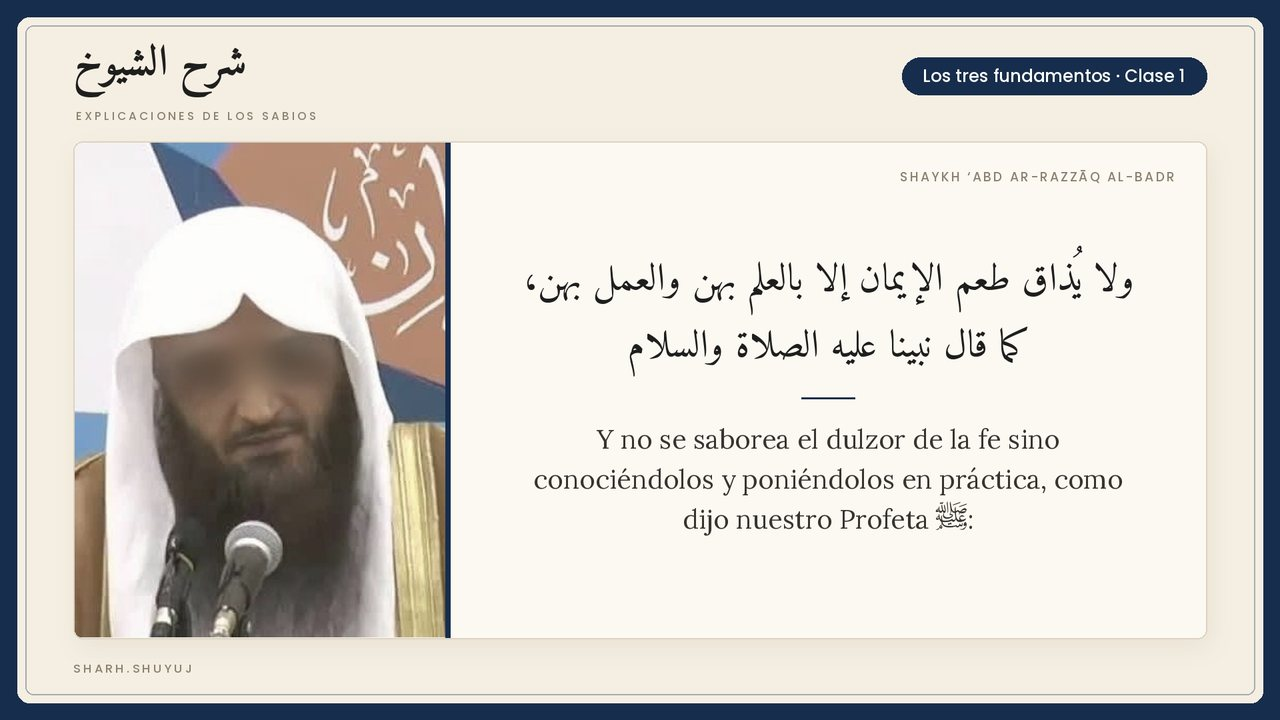
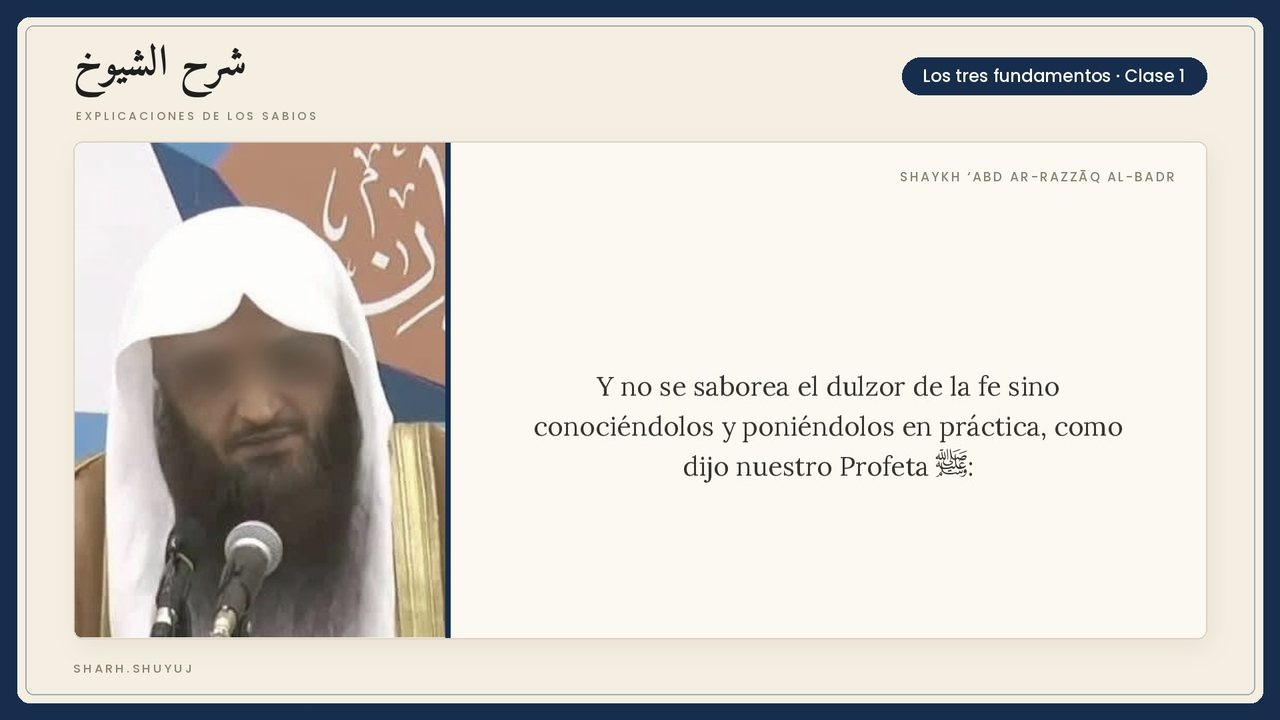
Quitar menciones al texto en árabe (solo traducción al español)

Changed region(s): [[0.4062, 0.4583, 0.875, 0.7333], [0.4062, 0.3667, 0.875, 0.4278]]

diff --git a/index.html b/index.html
@@ -4,7 +4,7 @@
 <meta charset="utf-8">
 <meta name="viewport" content="width=device-width, initial-scale=1">
 <title>شرح الشيوخ · Las explicaciones de los grandes sabios, en español</title>
-<meta name="description" content="Las explicaciones completas de los grandes sabios sobre los libros clásicos del Islam, en árabe y en español, libro a libro. Únete a la lista de espera.">
+<meta name="description" content="Las explicaciones completas de los grandes sabios sobre los libros clásicos del Islam, traducidas al español, libro a libro. Únete a la lista de espera.">
 <meta property="og:title" content="شرح الشيوخ · Explicaciones de los Sabios">
 <meta property="og:description" content="Las explicaciones completas de los grandes sabios, directamente en español. Únete a la lista de espera.">
 <meta property="og:image" content="https://sharhshuyuj.com/yt-enfermedad.jpg">
@@ -262,7 +262,7 @@
     <div>
       <div class="eyebrow">Series completas · Muy pronto</div>
       <h1>Las explicaciones de los grandes sabios, <em>completas</em> y en español.</h1>
-      <p class="lead">Los libros clásicos del Islam, explicados de principio a fin por los sabios de Ahl as-Sunna. Con el texto en árabe y la traducción al español, clase a clase.</p>
+      <p class="lead">Los libros clásicos del Islam, explicados de principio a fin por los sabios de Ahl as-Sunna. Traducidos al español, clase a clase.</p>
       <div class="hero-ctas">
         <a class="btn btn-main" href="#unete">Únete a la lista de espera →</a>
         <a class="btn btn-line" href="#curriculum">Ver los libros</a>
@@ -329,8 +329,8 @@
       </div>
       <div class="card reveal">
         <div class="ico"><svg viewBox="0 0 24 24" fill="none" stroke="currentColor" stroke-width="1.8" stroke-linecap="round" stroke-linejoin="round"><path d="M3 5h8M7 3v2M5 5c0 4 3 7 6 8M9 5c0 3-2 6-6 8"/><path d="M13 21l4-10 4 10M14.5 17.5h5"/></svg></div>
-        <h3>Árabe y español</h3>
-        <p>Escuchas al sabio en árabe y lees cada frase en árabe y en español a la vez. Así entiendes todo y, además, aprendes el vocabulario.</p>
+        <h3>Traducción cuidada</h3>
+        <p>Escuchas al sabio con su propia voz y lees cada frase traducida al español, de forma fiel y revisada. Así no se te escapa nada.</p>
       </div>
       <div class="card reveal">
         <div class="ico"><svg viewBox="0 0 24 24" fill="none" stroke="currentColor" stroke-width="1.8" stroke-linecap="round" stroke-linejoin="round"><circle cx="12" cy="8" r="4"/><path d="M4 21c1.5-4 4.5-6 8-6s6.5 2 8 6"/></svg></div>
@@ -345,11 +345,11 @@
     </div>
 
     <div class="sample">
-      <img class="reveal" src="muestra-clase.jpg" alt="Ejemplo de una clase: texto en árabe y traducción al español">
+      <img class="reveal" src="muestra-clase.jpg" alt="Ejemplo de una clase con la traducción al español">
       <div class="reveal">
         <div class="eyebrow">Así es una clase</div>
         <h3>Escucha al sabio y entiende cada palabra</h3>
-        <p>El vídeo de la clase, con cada frase del sabio en árabe y su traducción al español debajo, cuidada y fiel.</p>
+        <p>El vídeo de la clase, con cada frase del sabio traducida al español, de forma cuidada y fiel.</p>
         <ul>
           <li>Traducción revisada frase a frase</li>
           <li>La explicación completa, sin cortes</li>
@@ -452,7 +452,7 @@
     </div>
     <div class="faq">
       <details><summary>¿Tiene coste?</summary><p>En nuestro canal de YouTube habrá mucho contenido gratis. Pero las series completas de los libros, para quien se lo quiera tomar más en serio y estudiar, estarán en Patreon y sí serán de pago. Anunciaremos el precio por correo a la lista de espera unos días antes de abrir, junto con el precio especial de fundador.</p></details>
-      <details><summary>¿Necesito saber árabe?</summary><p>No. Todas las clases tienen la traducción al español de cada frase. El árabe aparece al lado para quien quiera seguirlo o ir aprendiéndolo.</p></details>
+      <details><summary>¿Necesito saber árabe?</summary><p>No. Todas las clases tienen la traducción al español de cada frase, así que puedes seguirlas sin saber nada de árabe.</p></details>
       <details><summary>¿Cuándo abrís?</summary><p>Muy pronto, in shā’ Allāh. Quienes estén en la lista de espera recibirán la fecha por correo antes que nadie.</p></details>
       
     </div>
